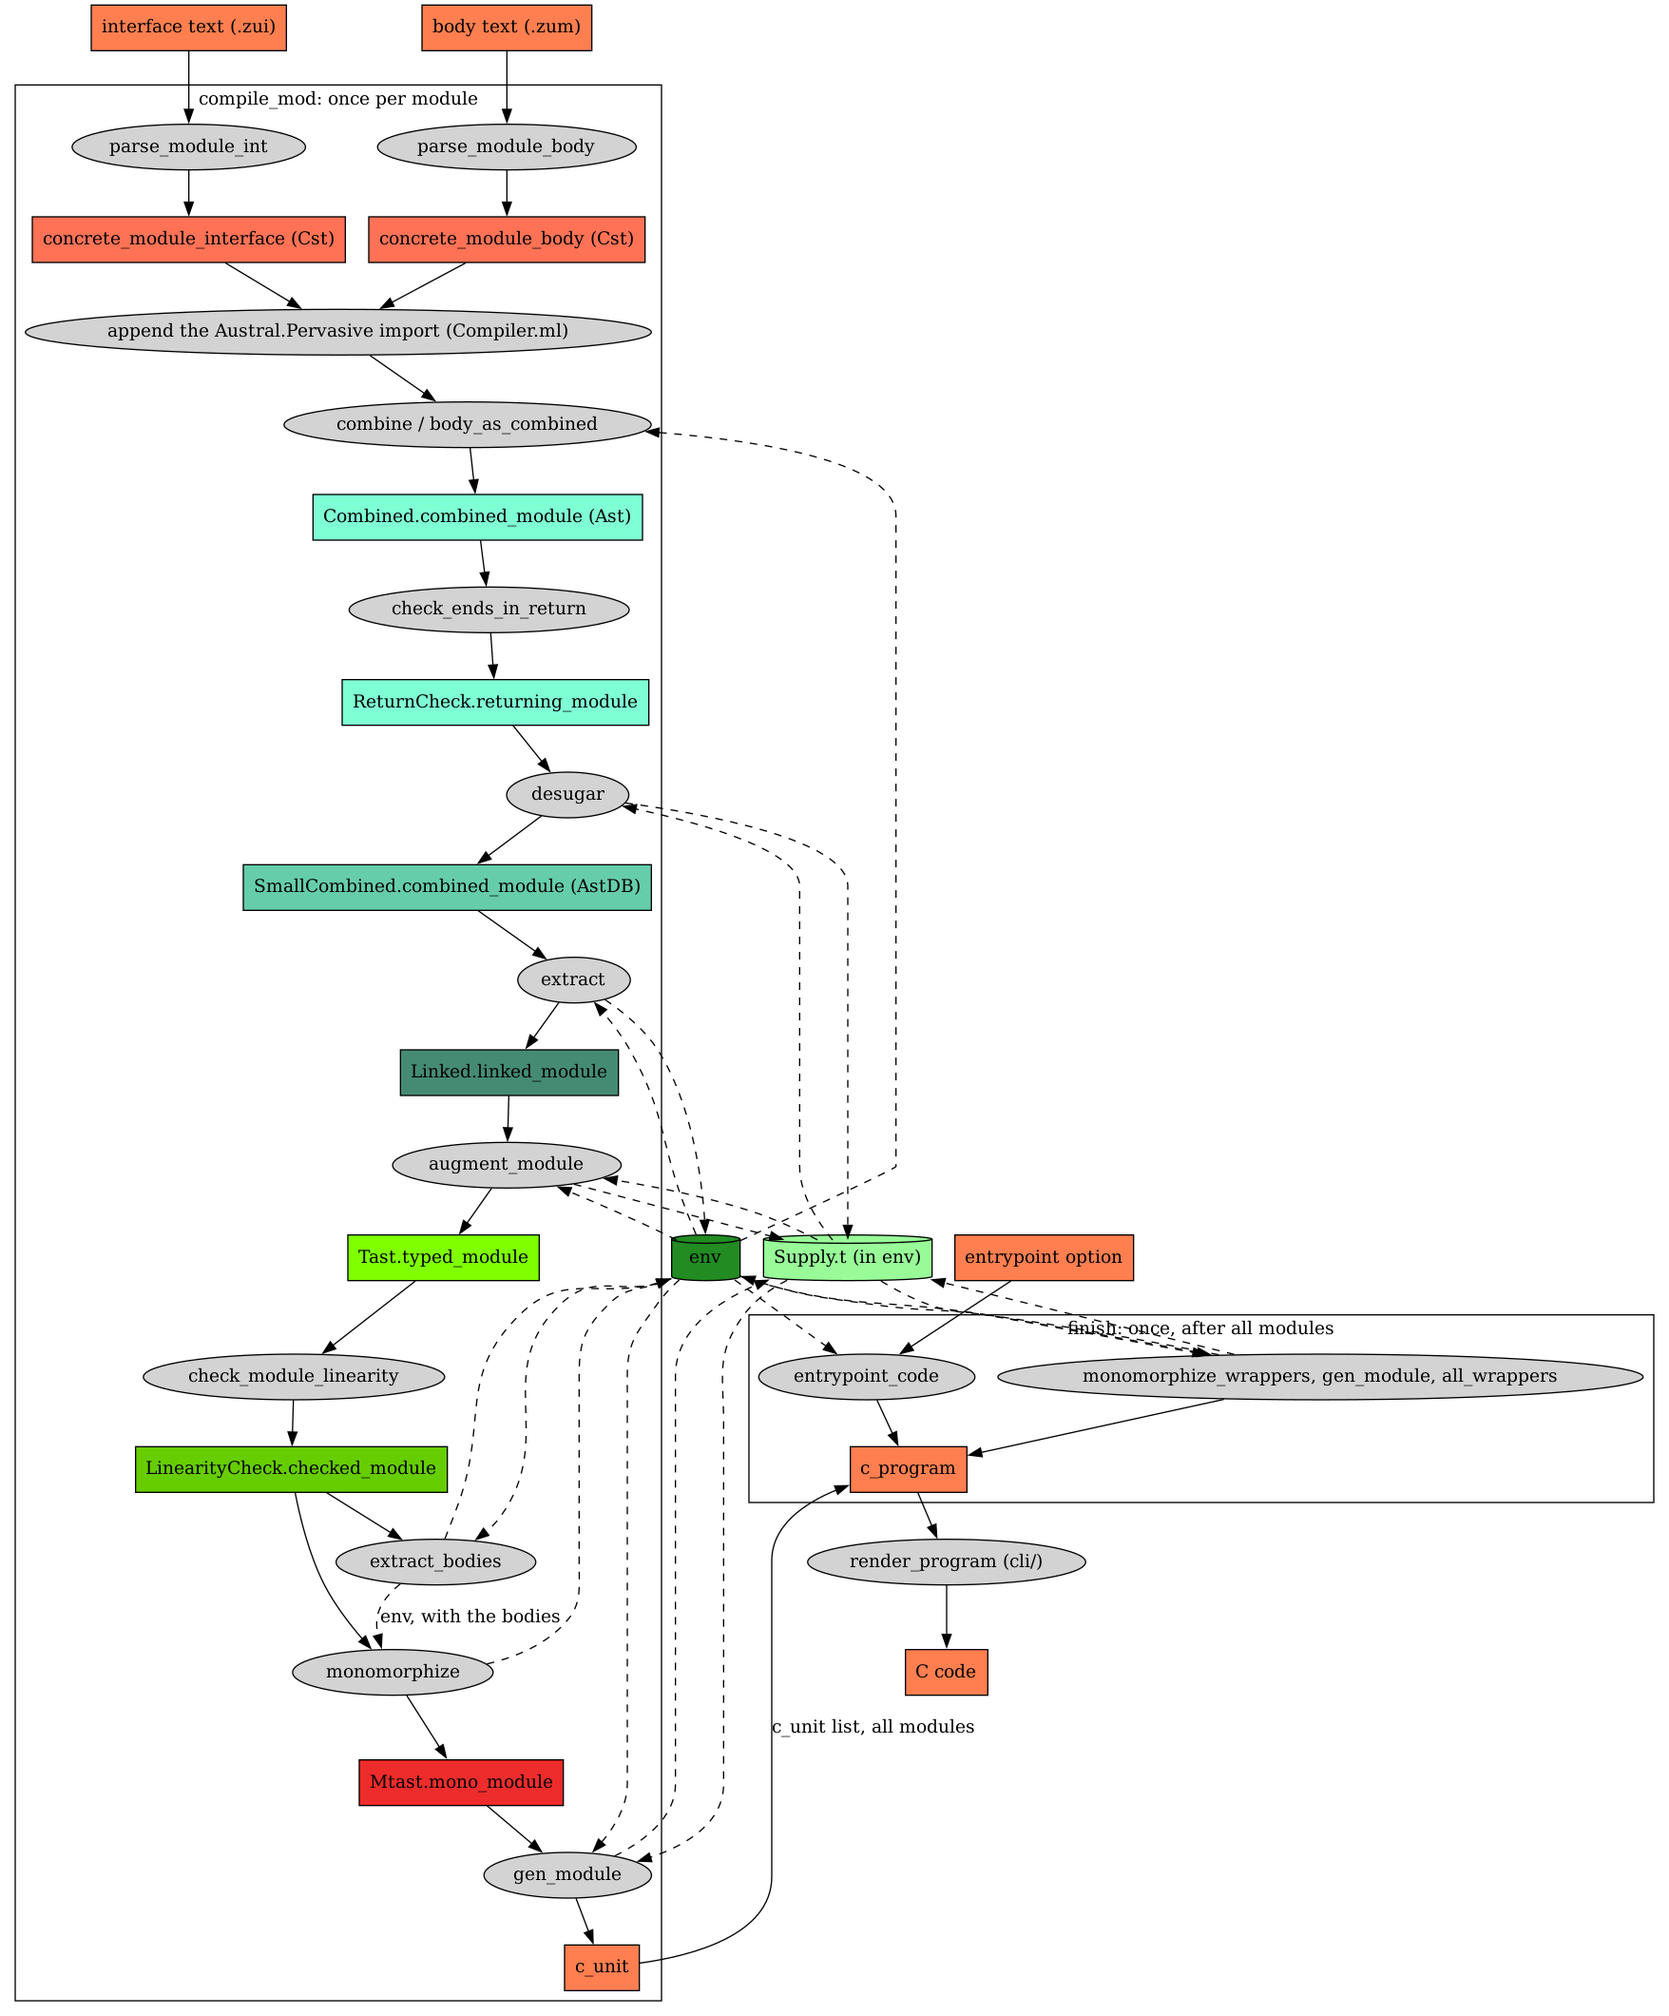
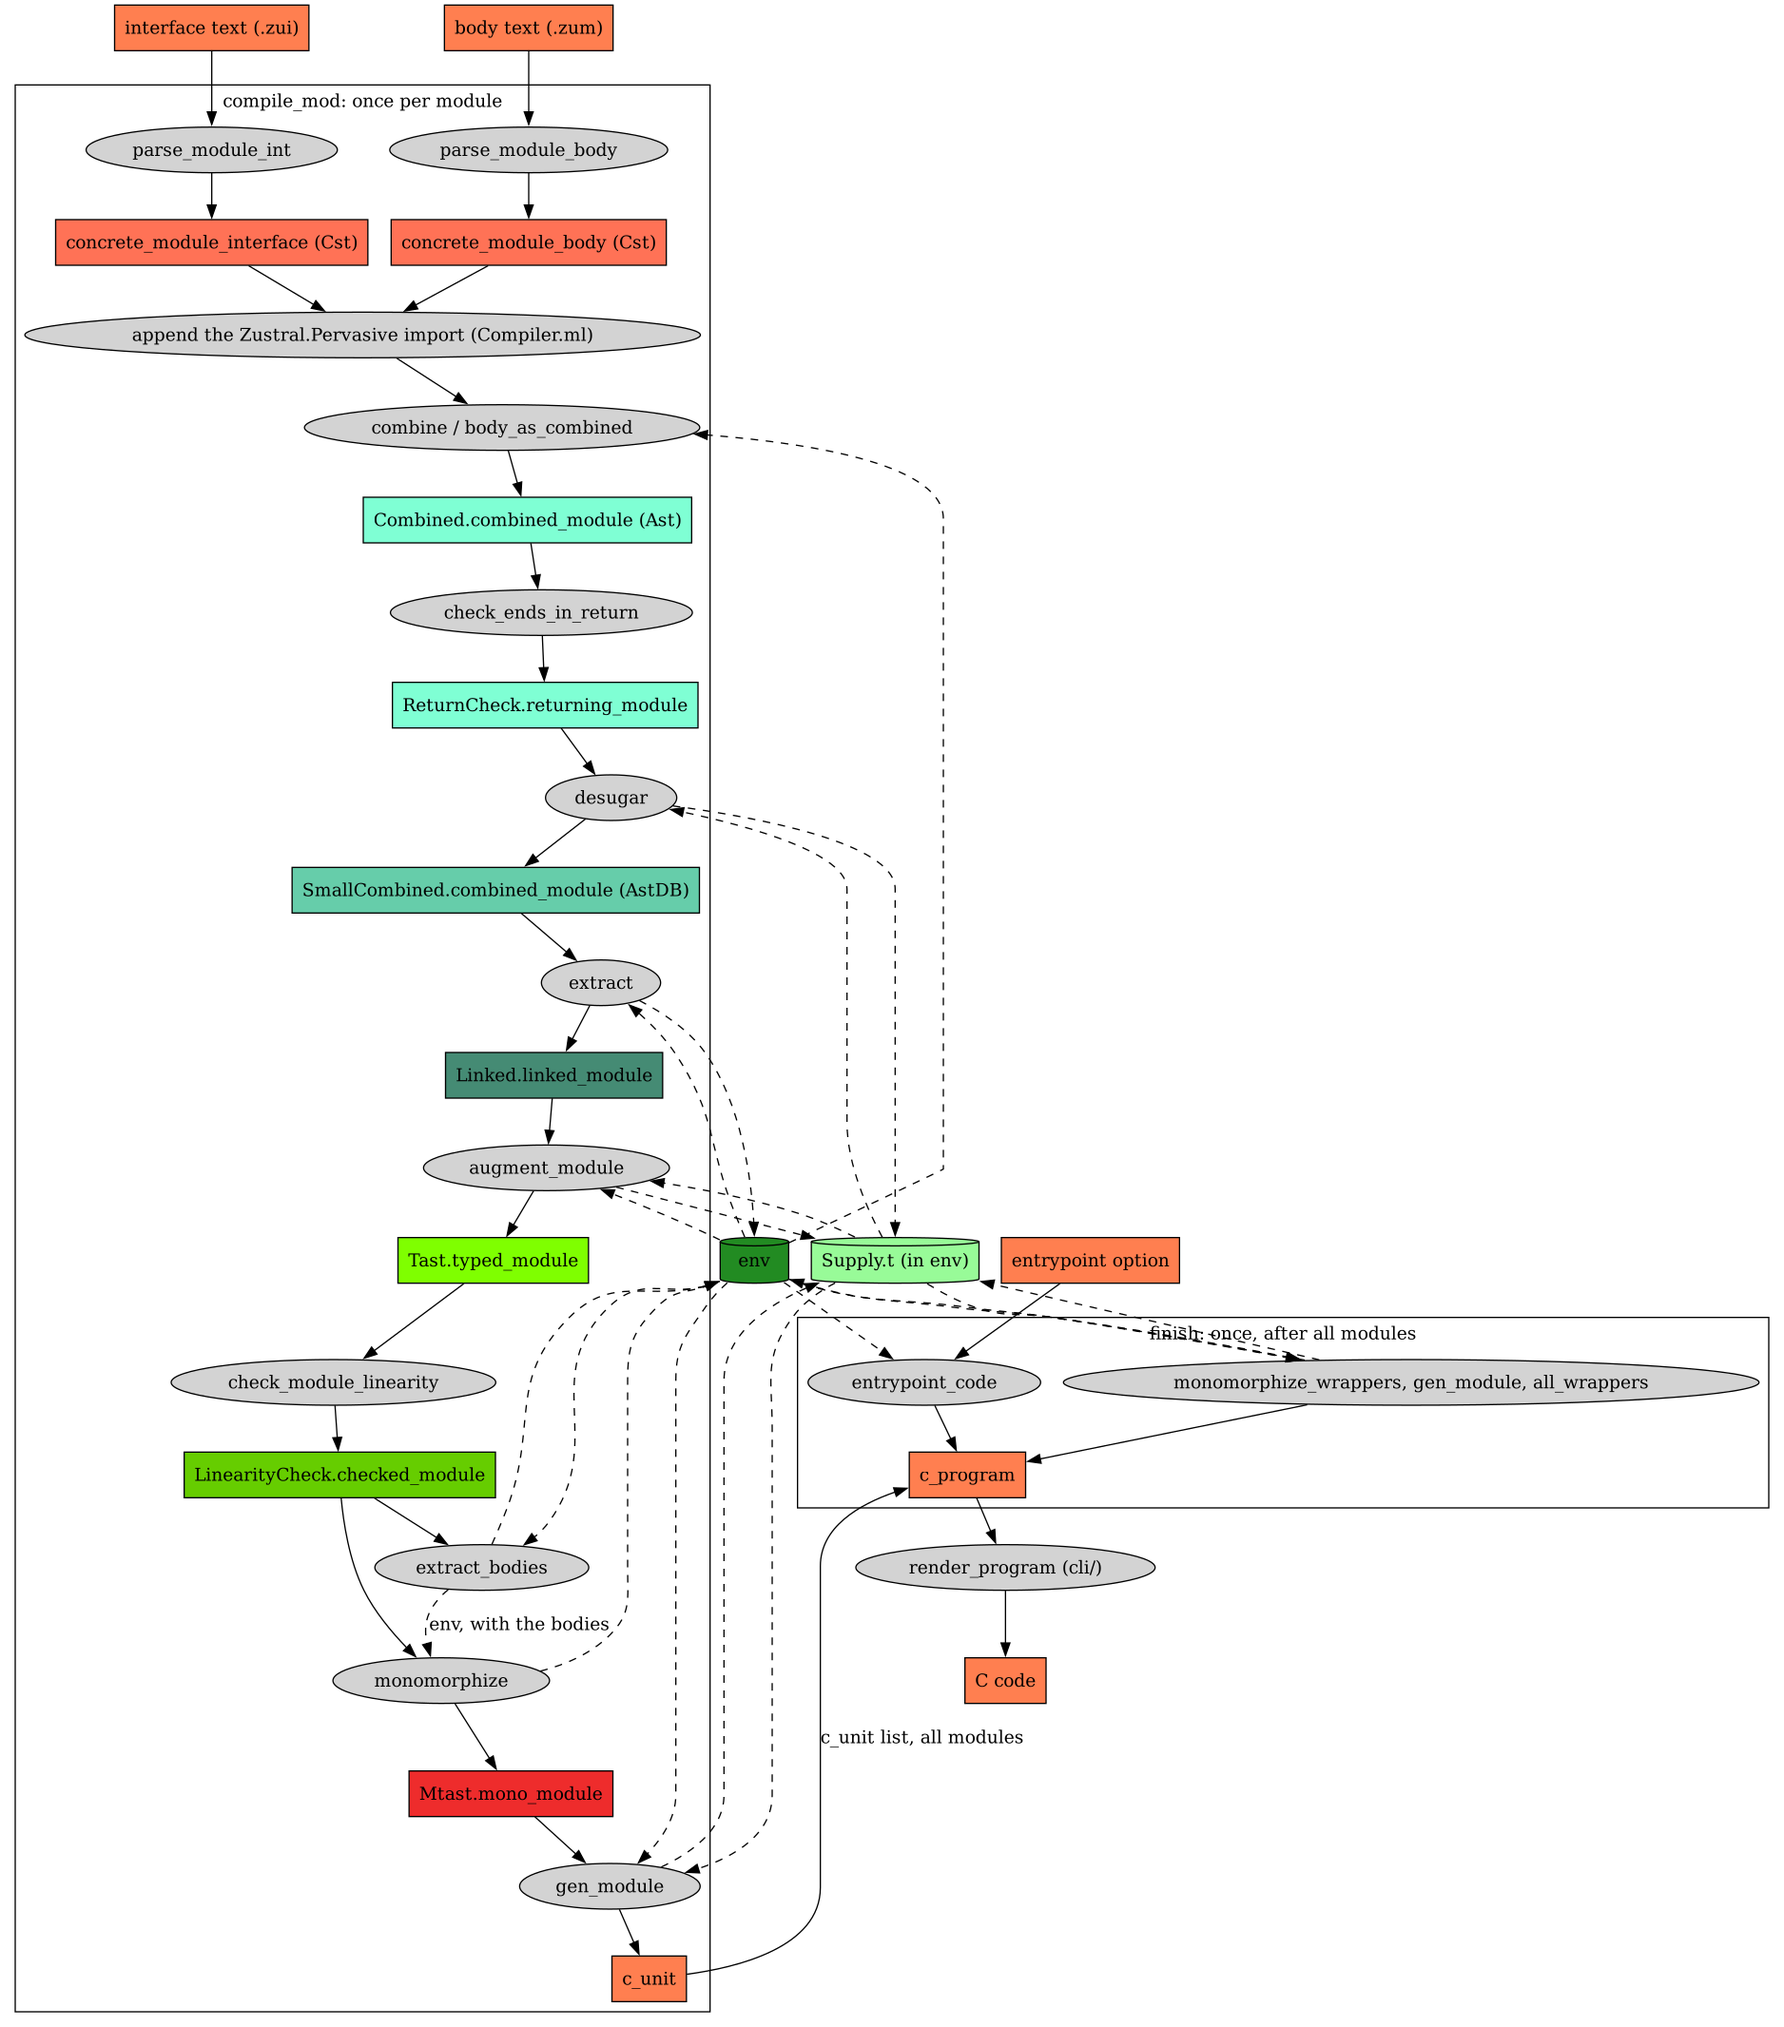
#46 改名で古いコミットを指すものが壊れたのを直す
- tools/refactoring/check.sh: 比べる相手のコミットが改名の前なら、austral.opam と
  bin/austral.exe でコンパイラを作る。これがないと、PR の CI で本線と比べる手順が落ちる。
- 古いコミット（f601bcb、97c6041）に当てるパッチ、差分、スクリプトと、
  docs/refactoring-log.tsv を改名の前に戻す。それらのコミットにあるのは Austral の名前である。
- docs/pipeline.png を pipeline.dot から作り直す。
- 「an Zustral」を「a Zustral」に直す。

Claude-Session: https://claude.ai/code/session_01Gf9NKCN42kXDJqBhkTZdXa

Changed region(s): [[0.0, 0.0, 0.9226, 0.9962]]

diff --git a/docs/research/functional-domain-refactoring/r12-prototype/escape-check.py b/docs/research/functional-domain-refactoring/r12-prototype/escape-check.py
@@ -9,7 +9,7 @@ exported function passes if it cannot raise, or if its body calls `catch`.
 import pathlib, re, sys
 
 root, module = pathlib.Path(sys.argv[1]), sys.argv[2]
-RAISE = re.compile(r'zustral_raise|(^|[^_a-zA-Z])err [("]|internal_err|Errors\.[a-z_]+|failwith|(^|[^_a-zA-Z])raise |assert false', re.M)
+RAISE = re.compile(r'austral_raise|(^|[^_a-zA-Z])err [("]|internal_err|Errors\.[a-z_]+|failwith|(^|[^_a-zA-Z])raise |assert false', re.M)
 DEFINITION = re.compile(r"^(?:let rec|let|and) ([a-z_][A-Za-z0-9_']*)[^=\n]*=", re.M)
 
 bodies = {}

diff --git a/CONTRIBUTING.md b/CONTRIBUTING.md
@@ -110,7 +110,7 @@ There is a small collection of example programs that demonstrate various
 language features and how to solve common tasks (e.g. Fibonacci, hello
 world). We are always looking for new programs to showcase Zustral.
 
-If you've written an Zustral program you think is useful, interesting, or
+If you've written a Zustral program you think is useful, interesting, or
 representative; and want to share it, feel free to open a PR or an
 [issue][issues].
 
